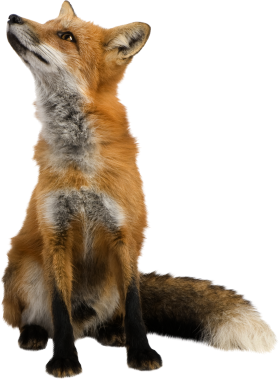
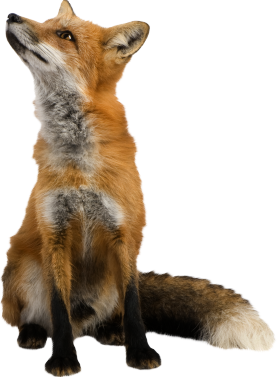
Cropping

diff --git a/filter.cpp b/filter.cpp
@@ -38,8 +38,7 @@ inline void display(cv::Mat const &image) {
 }
 
 
-const char* keys =
-  { "{help h||}{@input||input path}" };
+
 
 
 bool clipped(cv::Mat const& alpha) {
@@ -147,8 +146,6 @@ bool keepImage(cv::Mat4b &result, std::string const &path) {
     cv::GaussianBlur(mask, mask, cv::Size(9, 9), 0);
     r = alpha.mul(mask + mask, 1.0/255);
 
-    display(mask);
-
     result = replaceAlpha(img, r);
     return true;
   }
@@ -165,20 +162,8 @@ cv::Mat4b trimAlpha(cv::Mat4b const &image) {
   vector<vector<Point> > contours;
   findContours(alpha, contours, RETR_EXTERNAL, CHAIN_APPROX_SIMPLE);
 
-  RotatedRect rect = cv::minAreaRect(contours[0]);
-  Size size = rect.size;
-  float angle = rect.angle;
-  if(angle < -45.) {
-    angle += 90.0;
-    swap(size.width, size.height);
-  }
-
-  Mat m = getRotationMatrix2D(rect.center, angle, 1.0);
-  Mat trimmed;
-
-  warpAffine(image, trimmed, m, image.size(), INTER_CUBIC);
-
-  return trimmed;
+  cv::Rect rect = boundingRect(contours[0]);
+  return image(rect).clone();
 }
 
 cv::Mat checkers(int w, int h, int blockSize) {
@@ -220,26 +205,38 @@ cv::Mat alphaBlend(const Mat4b& image, Mat3b const& dest) {
 }
 
 
+cv::Mat3b onCheckers(cv::Mat4b const &image) {
+  cv::Mat bg = checkers(image.cols, image.rows, 12);
+  return alphaBlend(image, bg);
+}
+
+const char* keys =
+  { "{help h||}{@input||input path}{@output|output|output path}" };
+
 int main( int argc, const char** argv )
 {
     CommandLineParser parser(argc, argv, keys);
     string inputPath = parser.get<string>(0);
+    path outputPath (parser.get<string>(1));
 
     cv::Mat4b image;
     for(auto& entry : boost::make_iterator_range(directory_iterator(inputPath), {})) {
       if( !is_regular_file( entry.status() ) ) continue;
 
-      std::string path = entry.path().c_str();
-      if(keepImage(image, path)) {
-
-        cv::Mat bg = checkers(image.cols, image.rows, 12);
-
+      path p = entry.path();
+      if(keepImage(image, p.string())) {
         image = trimAlpha(image);
-        cv::Mat out = alphaBlend(image, bg);
+        //display(onCheckers(image));
 
-        display(out);
+        path out = outputPath / p.stem().replace_extension("png");
+        std::cout << out.c_str() << std::endl;
 
+        imwrite(out.c_str(), image);
       }
+
+
+
+
     }
 
     return 0;
